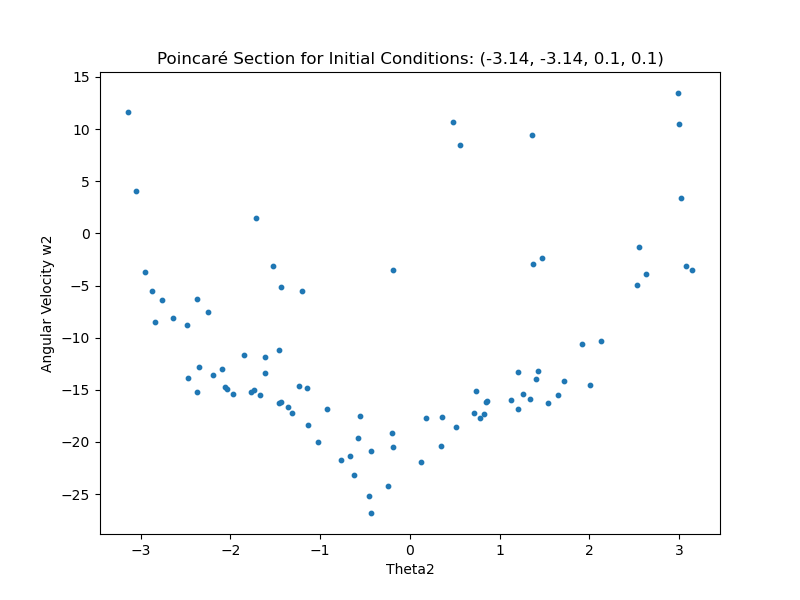
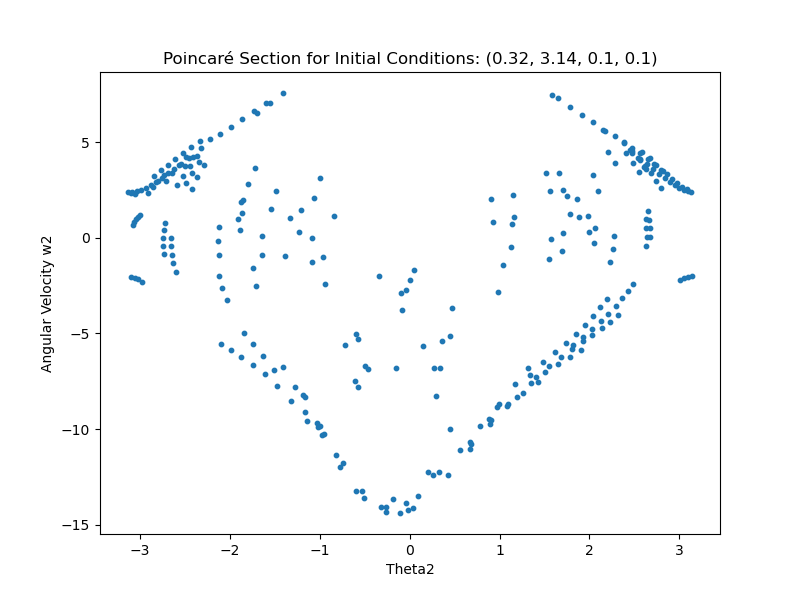
poincare plots

diff --git a/poincaré.py b/poincaré.py
@@ -115,13 +115,19 @@ initial_conditions_sets = [
     (-3.14, -0.32, 0.1, 0.1),
     (-3.14, -0.19, 0.1, 0.1),
     (-3.14, -0.06, 0.1, 0.1),
-    (np.pi + epsilon, np.pi + epsilon, 0, 0),  # Both pendulums slightly perturbed from being inverted
-    (-3.14, -3.14, 0.1, 0.1),
-    (-3.14, -3.01, 0.1, 0.1),
-    (-3.14, -2.89, 0.1, 0.1)
+    (0, np.pi + epsilon, 0, 0),  # Both pendulums slightly perturbed from being inverted
+    (0.32, 3.14, 0.1, 0.1),
+    (0.19, 3.14, 0.1, 0.1),
+    (0.06, 3.14, 0.1, 0.1)
 ]
+from animator import PendulumAnimator
+
+
 
 # Generate Poincaré sections for each set of initial conditions
 for ic in initial_conditions_sets:
     poincare.generate_poincare_section(ic)
-    pass
+    # theta1, theta2, _, _ = poincare.run_simulation(ic)
+    # animate = PendulumAnimator()
+    # animate.set_data((theta1,theta2))
+    # animate.animate()
